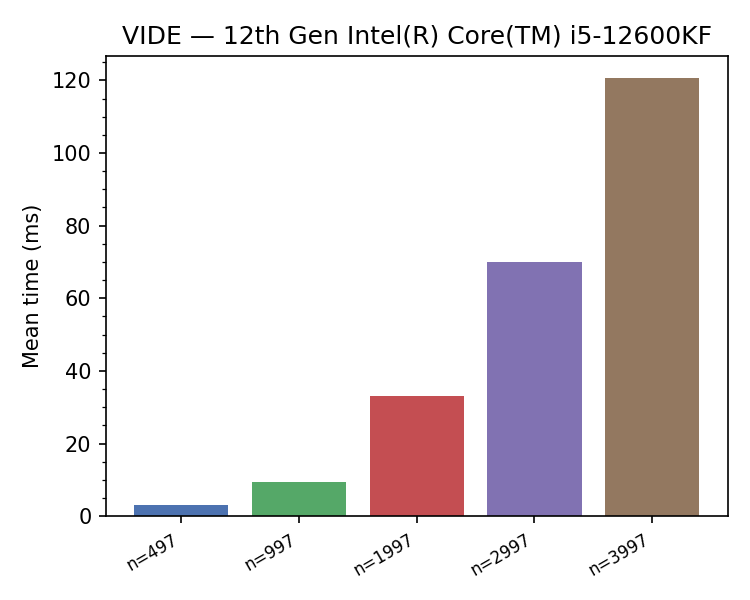
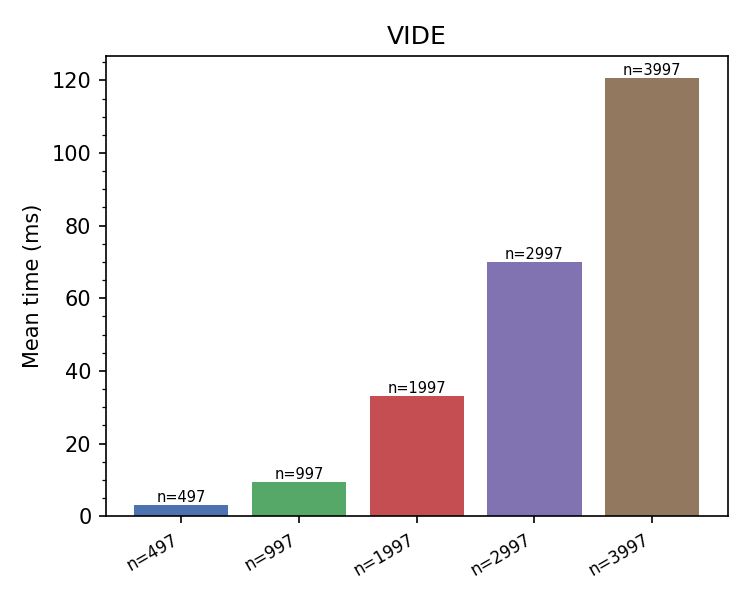
Update benchmark charts: n labels on bars, simpler titles, trial info in README
- Remove CPU brand from chart titles (now just "VIE-1", "VIE-2", "VIDE")
- Annotate each bar with its n= value
- README benchmarks section now states the processor and that mean time
  is averaged over auto-calibrated rounds (~9 for large inputs, ~6000
  for small inputs)

diff --git a/benchmarks/plot_results.py b/benchmarks/plot_results.py
@@ -21,8 +21,6 @@ def main(json_path, output_path):
     times = {b["name"].split("::")[-1]: b["stats"]["mean"]
              for b in data["benchmarks"]}
 
-    cpu = data["machine_info"]["cpu"]["brand_raw"]
-
     # (solver, output_suffix, [(benchmark_name, actual_n_pts), ...])
     groups = [
         ("VIE-1", "vie1",
@@ -48,12 +46,17 @@ def main(json_path, output_path):
         bar_times = [times[name] * 1e3 for name, _ in cases]
 
         fig, ax = plt.subplots(figsize=(5, 4))
-        ax.bar(x, bar_times, color=colors)
-        ax.set_title(f"{solver_name} — {cpu}")
+        bars = ax.bar(x, bar_times, color=colors)
+        ax.set_title(solver_name)
         ax.set_xticks(x)
         ax.set_xticklabels(x_labels, rotation=30, ha="right", fontsize=8)
         ax.set_ylabel("Mean time (ms)")
         ax.yaxis.set_minor_locator(plt.matplotlib.ticker.AutoMinorLocator())
+
+        for bar, (_, n) in zip(bars, cases):
+            ax.text(bar.get_x() + bar.get_width() / 2,
+                    bar.get_height(), f"n={n}",
+                    ha="center", va="bottom", fontsize=7)
 
         fig.tight_layout()
         path = f"{stem}_{suffix}{ext}"

diff --git a/README.md b/README.md
@@ -54,7 +54,7 @@ All solvers accept `return_polys=True` to also return the piecewise polynomial s
 
 ## Benchmarks
 
-Benchmarked on **12th Gen Intel(R) Core(TM) i5-12600KF**.
+Run on a **12th Gen Intel(R) Core(TM) i5-12600KF**. Mean time is averaged over a variable number of automatically-calibrated rounds (from ~9 for large inputs up to ~6000 for small inputs).
 
 ![VIE-1 benchmarks](benchmarks/results_vie1.png)
 ![VIE-2 benchmarks](benchmarks/results_vie2.png)